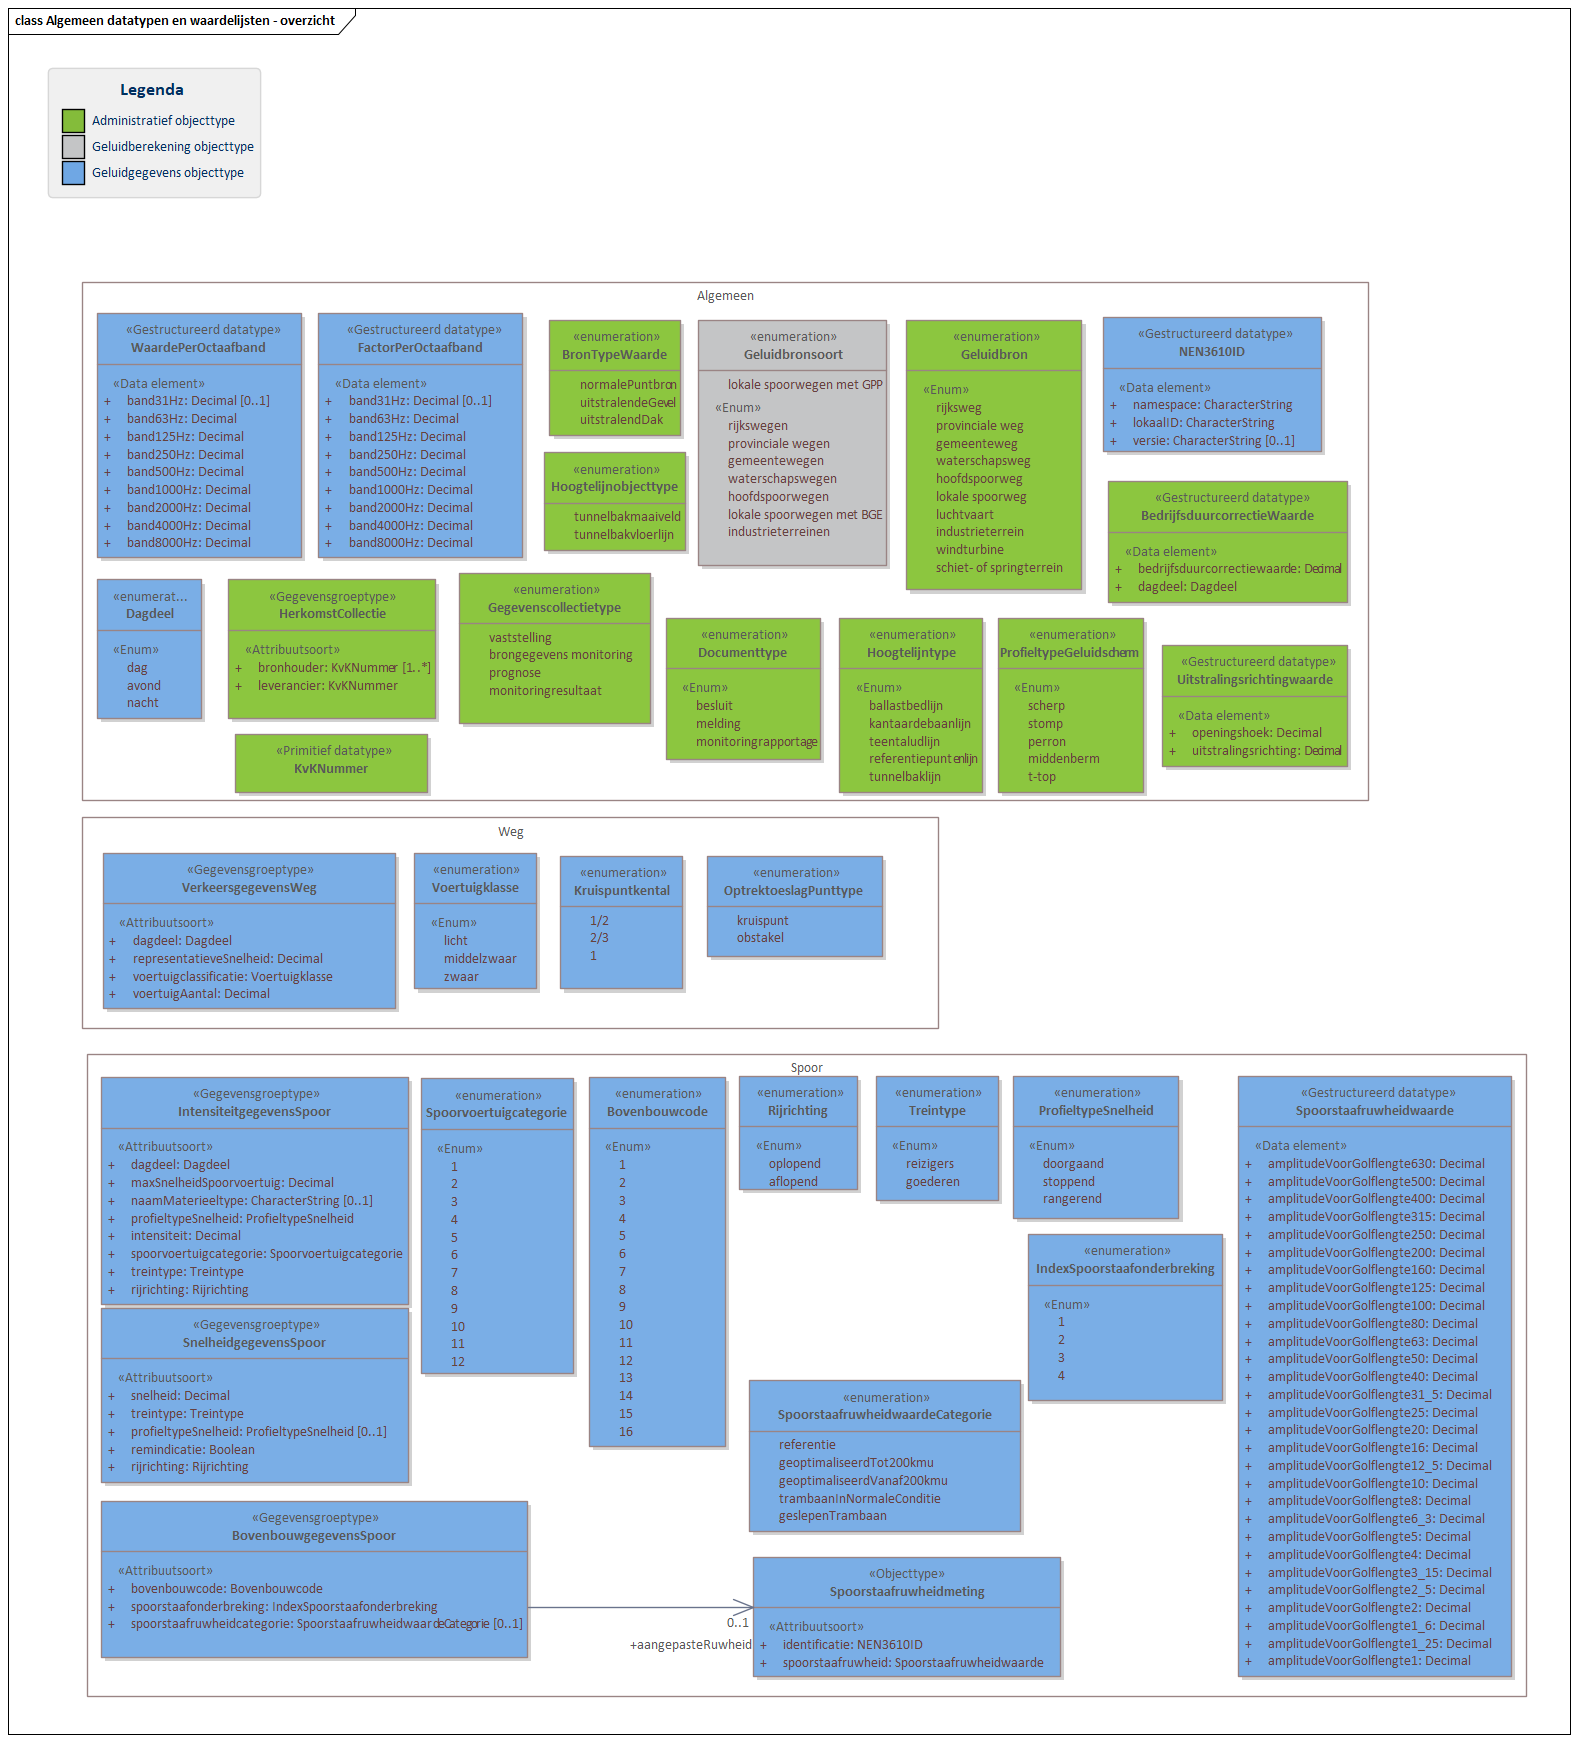
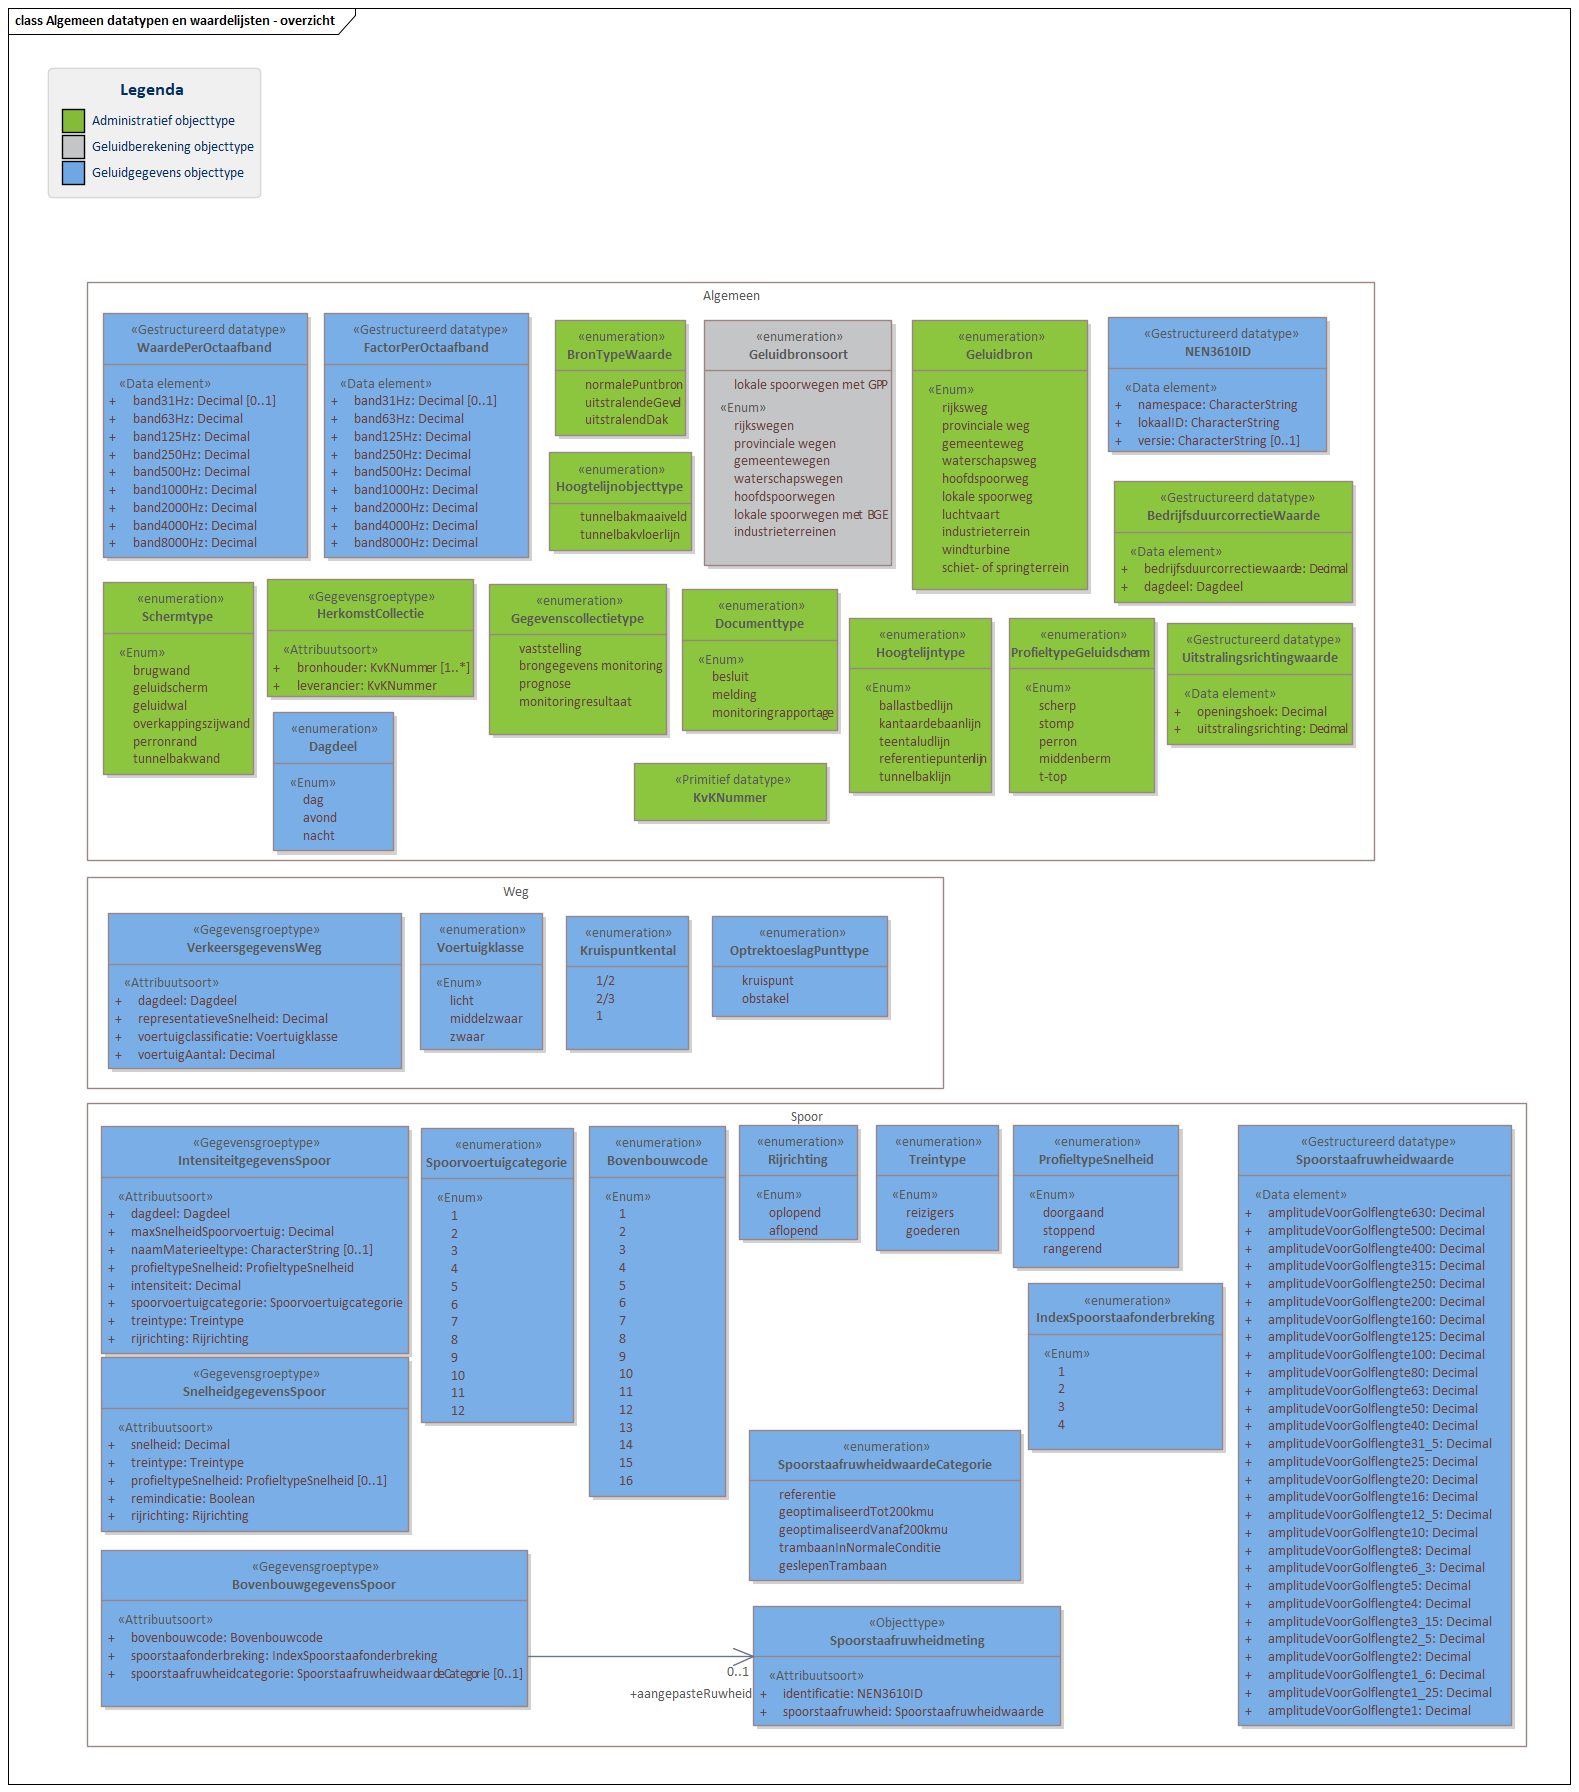
MIMLM-InformatiemodelGeluid-1.1-0-20210521-20210924-124714

Changed region(s): [[0.0, 0.1549, 0.993, 1.0], [0.0, 0.0, 0.2172, 0.1239], [0.2483, 0.7435, 0.4655, 0.8365]]

diff --git a/data/IMG-cat.respec.html b/data/IMG-cat.respec.html
@@ -1,7 +1,7 @@
 
 <!DOCTYPE HTML><section id="cat" class="normative">
    <h2>Gegevensdefinitie</h2>
-   <!--MIMLM-InformatiemodelGeluid-1.1-0-20210521-20210924-114409 imvertor 1.64.2-->
+   <!--MIMLM-InformatiemodelGeluid-1.1-0-20210521-20210924-124714 imvertor 1.64.2-->
    <section id="EAID_66AE8FA2_74FC_4d4d_B2B2_249C8D6A651F">
       <h3>[TODO: IMAGE]   Basismodel - overzicht</h3>
       <div class="imageinfo overview"><img src="data/Images/EAID_66AE8FA2_74FC_4d4d_B2B2_249C8D6A651F.png" usemap="#imagemap-EAID_66AE8FA2_74FC_4d4d_B2B2_249C8D6A651F" alt="Diagram Het Basismodel vormt de samenhang tussen alle domeinen van het IMGeluid. Alle objecttypen en relaties uit het IMGeluid komen samen in een Geluidgegevenscollectie.&#xA;Binnen het IMGeluid worden geluidbrongegevens die gebruikt worden voor GPP en BGE berekeningen, gemodelleerd als een Geluidemissie of Geluidoverdrachtobject. De resultaten van GPP of BGE berekeningen worden opgeslagen in een Geluidgegevenscollectie. De onderliggende juridische vastleggingen, vaststellingen, of monitoringsverslagen van deze omgevings- of monitoringswaarden, worden ook opgeslagen in dezelfde Geluidgegevenscollectie.&#xA;Per geluidbron per toepassing kan er een Geluidgegevenscollectie bestaan. Deze kan geassocieerd worden met maximaal 1 Geluidaandachtsgebied. Wanneer geluidgegevens met betrekking tot cumulatieberekeningen worden aangeleverd, bevat een Geluidgegevenscollectie geen Geluidaandachtsgebied.&#xA;&#xA;# <b&gt;test</b&gt;&#xA;Klik met de rechtermuisknop op het diagram om de afbeelding op volledige grote in een nieuw tabblad te openen."><map name="imagemap-EAID_66AE8FA2_74FC_4d4d_B2B2_249C8D6A651F"><area shape="rect" alt="GeluidgegevenscollectieElement" coords="411,164,648,268" href="#graph_EAID_924BD078_D715_461a_B7E9_D7176A7406E0"><area shape="rect" alt="Monitoringresultaat" coords="664,812,943,963" href="#graph_EAID_BA00B77B_D408_4590_8185_CE59E5838F1E"><area shape="rect" alt="Basisgeluidemissieobject" coords="217,772,522,909" href="#graph_EAID_9AD15457_4880_42e5_8C72_4E5EFAC91B15"><area shape="rect" alt="Geluidproductieplafondobject" coords="1160,508,1446,772" href="#graph_EAID_237408F8_8CE9_4828_B8FB_1A5B8C917622"><area shape="rect" alt="Geluidberekeningobject" coords="678,1071,992,1271" href="#graph_EAID_97ED59FE_9FCA_49a6_8F07_214E48000B76"><area shape="rect" alt="Documentverwijzing" coords="711,391,968,566" href="#graph_EAID_7E137496_1028_4af5_9367_569358A2167B"><area shape="rect" alt="Geluidaandachtsgebied" coords="1231,284,1477,424" href="#graph_EAID_B06128AC_518C_4e26_88E5_14ED5A050A19"><area shape="rect" alt="Geluidgegevenscollectie" coords="812,68,1155,297" href="#graph_EAID_313C5AF9_49B8_4860_9E65_DE7C70084864"><area shape="rect" alt="Geluidemissieobject" coords="171,365,437,525" href="#graph_EAID_361C96BA_A638_494e_80BA_590ED481A81B"><area shape="rect" alt="Geluidoverdrachtobject" coords="197,549,476,686" href="#graph_EAID_2FEA326B_B7E7_48a4_B50F_00CCB2694677"></map><p><b>Basismodel - overzicht</b> — Het Basismodel vormt de samenhang tussen alle domeinen van het IMGeluid. Alle objecttypen
@@ -132,7 +132,7 @@
    </section>
    <section id="EAID_6CCCDEA4_4D5E_407f_A06B_3D2E5CD4D5B7">
       <h3>[TODO: IMAGE]   Algemeen datatypen en waardelijsten - overzicht</h3>
-      <div class="imageinfo overview"><img src="data/Images/EAID_6CCCDEA4_4D5E_407f_A06B_3D2E5CD4D5B7.png" usemap="#imagemap-EAID_6CCCDEA4_4D5E_407f_A06B_3D2E5CD4D5B7" alt="Diagram "><map name="imagemap-EAID_6CCCDEA4_4D5E_407f_A06B_3D2E5CD4D5B7"><area shape="rect" alt="Spoorstaafruwheidmeting" coords="753,1557,1061,1677" href="#graph_EAID_25C294BB_FD64_4dc7_AEA3_118ECCA1C2E4"><area shape="rect" alt="Hoogtelijntype" coords="839,618,983,793" href="#graph_EAID_46116480_7260_453f_A7D6_80B6C72C8BDC"><area shape="rect" alt="ProfieltypeGeluidscherm" coords="998,618,1144,793" href="#graph_EAID_F76303B4_A75E_4671_8977_C4719B32F932"><area shape="rect" alt="Hoogtelijnobjecttype" coords="544,452,686,551" href="#graph_EAID_2C63527A_74A7_4248_A10B_74D236BA4163"><area shape="rect" alt="BronTypeWaarde" coords="549,320,681,436" href="#graph_EAID_4858CC05_8BCF_466f_A2F4_B8B01BEF16A6"><area shape="rect" alt="BedrijfsduurcorrectieWaarde" coords="1108,481,1348,603" href="#graph_EAID_EC155AB1_EEFE_4a82_BEF9_003F0872B893"><area shape="rect" alt="Uitstralingsrichtingwaarde" coords="1162,645,1348,767" href="#graph_EAID_C522F5BC_D298_4887_8030_D6271385F840"><area shape="rect" alt="Kruispuntkental" coords="560,856,683,989" href="#graph_EAID_951E9EFA_E876_44d0_B49F_86C07099E21F"><area shape="rect" alt="OptrektoeslagPunttype" coords="707,856,883,957" href="#graph_EAID_9A9D8D19_D8A0_4241_A6F6_5B7E0D4C7E58"><area shape="rect" alt="IndexSpoorstaafonderbreking" coords="1028,1234,1223,1401" href="#graph_EAID_89531B10_996F_4085_93AC_36BCCB16C95D"><area shape="rect" alt="Spoorstaafruwheidwaarde" coords="1238,1076,1512,1677" href="#graph_EAID_4F6A5461_64CA_460e_9C11_0E25FF4A336B"><area shape="rect" alt="SpoorstaafruwheidwaardeCategorie" coords="749,1380,1021,1532" href="#graph_EAID_01C33249_C871_41b9_8872_4135A5E35943"><area shape="rect" alt="Voertuigklasse" coords="414,853,537,989" href="#graph_EAID_26C18A71_6F81_4654_8495_3E28EE752A22"><area shape="rect" alt="NEN3610ID" coords="1103,317,1322,452" href="#graph_EAID_3F873D6C_1774_46ea_A631_862E358016E9"><area shape="rect" alt="Spoorvoertuigcategorie" coords="421,1078,574,1374" href="#graph_EAID_C59D8682_FC4E_4844_9466_C17945725615"><area shape="rect" alt="Bovenbouwcode" coords="589,1077,726,1447" href="#graph_EAID_E26FD10C_DEC5_4394_B498_B9522FAC3DA4"><area shape="rect" alt="Gegevenscollectietype" coords="459,573,651,724" href="#graph_EAID_B6773E1F_22D6_4682_B531_6A2D392A2B3C"><area shape="rect" alt="Documenttype" coords="666,618,821,760" href="#graph_EAID_30A82434_4787_4191_A68D_023591D3D78E"><area shape="rect" alt="Dagdeel" coords="97,579,202,719" href="#graph_EAID_00122B9B_F5D7_4dbc_8F39_D0F426DF8C39"><area shape="rect" alt="BovenbouwgegevensSpoor BovenbouwgegevensSpoor" coords="101,1501,528,1658" href="#graph_EAID_B5BBEDFE_C275_4c9f_BFF4_0440A0F7820B"><area shape="rect" alt="HerkomstCollectie" coords="228,579,436,719" href="#graph_EAID_0CBE6FF8_C5CF_452f_A268_2364394E4268"><area shape="rect" alt="ProfieltypeSnelheid" coords="1013,1076,1179,1219" href="#graph_EAID_2890B73C_6675_493b_8DE3_B0E30C61DBD1"><area shape="rect" alt="Treintype" coords="876,1076,999,1201" href="#graph_EAID_11918723_A26B_4cbd_BC37_F6914A4A4A4E"><area shape="rect" alt="Rijrichting" coords="739,1076,858,1190" href="#graph_EAID_91B9181F_C621_4819_83E0_1A31A9EBCF7F"><area shape="rect" alt="IntensiteitgegevensSpoor IntensiteitgegevensSpoor" coords="101,1077,409,1305" href="#graph_EAID_5FFCEE29_DD71_45db_926C_AB9A7E8677F3"><area shape="rect" alt="SnelheidgegevensSpoor SnelheidgegevensSpoor" coords="101,1308,409,1483" href="#graph_EAID_00CB7C0F_9A33_426c_90AE_DAAF97D29F7F"><area shape="rect" alt="VerkeersgegevensWeg VerkeersgegevensWeg" coords="103,853,396,1009" href="#graph_EAID_A5AB50E8_5A98_4426_A89E_F5C9D91CF6F8"><area shape="rect" alt="FactorPerOctaafband" coords="318,313,523,558" href="#graph_EAID_2E128FCF_DE66_4517_86D2_331E9E0C46EE"><area shape="rect" alt="WaardePerOctaafband" coords="97,313,302,558" href="#graph_EAID_7AE14E60_44F9_4af5_A8D1_D005D44A25BE"><area shape="rect" alt="Geluidbron" coords="906,320,1082,590" href="#graph_EAID_6FABE66F_BDF5_4771_AEE2_5B9B0C9199C2"><area shape="rect" alt="Geluidbronsoort" coords="698,320,887,566" href="#graph_EAID_16AB414E_37DD_460d_AEAE_00A62748E617"></map><p><b>Algemeen datatypen en waardelijsten - overzicht</b></p>
+      <div class="imageinfo overview"><img src="data/Images/EAID_6CCCDEA4_4D5E_407f_A06B_3D2E5CD4D5B7.png" usemap="#imagemap-EAID_6CCCDEA4_4D5E_407f_A06B_3D2E5CD4D5B7" alt="Diagram "><map name="imagemap-EAID_6CCCDEA4_4D5E_407f_A06B_3D2E5CD4D5B7"><area shape="rect" alt="Schermtype" coords="103,582,254,775" href="#graph_EAID_C9ACE184_6E2B_40c1_ACE0_A7C5EE554EF9"><area shape="rect" alt="Spoorstaafruwheidmeting" coords="753,1606,1061,1726" href="#graph_EAID_25C294BB_FD64_4dc7_AEA3_118ECCA1C2E4"><area shape="rect" alt="Hoogtelijntype" coords="849,618,992,793" href="#graph_EAID_46116480_7260_453f_A7D6_80B6C72C8BDC"><area shape="rect" alt="ProfieltypeGeluidscherm" coords="1009,618,1155,793" href="#graph_EAID_F76303B4_A75E_4671_8977_C4719B32F932"><area shape="rect" alt="Hoogtelijnobjecttype" coords="549,452,692,551" href="#graph_EAID_2C63527A_74A7_4248_A10B_74D236BA4163"><area shape="rect" alt="BronTypeWaarde" coords="555,320,686,436" href="#graph_EAID_4858CC05_8BCF_466f_A2F4_B8B01BEF16A6"><area shape="rect" alt="BedrijfsduurcorrectieWaarde" coords="1114,481,1353,603" href="#graph_EAID_EC155AB1_EEFE_4a82_BEF9_003F0872B893"><area shape="rect" alt="Uitstralingsrichtingwaarde" coords="1167,623,1353,745" href="#graph_EAID_C522F5BC_D298_4887_8030_D6271385F840"><area shape="rect" alt="Kruispuntkental" coords="566,916,689,1050" href="#graph_EAID_951E9EFA_E876_44d0_B49F_86C07099E21F"><area shape="rect" alt="OptrektoeslagPunttype" coords="712,916,888,1017" href="#graph_EAID_9A9D8D19_D8A0_4241_A6F6_5B7E0D4C7E58"><area shape="rect" alt="IndexSpoorstaafonderbreking" coords="1028,1283,1223,1450" href="#graph_EAID_89531B10_996F_4085_93AC_36BCCB16C95D"><area shape="rect" alt="Spoorstaafruwheidwaarde" coords="1238,1125,1512,1726" href="#graph_EAID_4F6A5461_64CA_460e_9C11_0E25FF4A336B"><area shape="rect" alt="SpoorstaafruwheidwaardeCategorie" coords="749,1430,1021,1581" href="#graph_EAID_01C33249_C871_41b9_8872_4135A5E35943"><area shape="rect" alt="Voertuigklasse" coords="420,913,543,1050" href="#graph_EAID_26C18A71_6F81_4654_8495_3E28EE752A22"><area shape="rect" alt="NEN3610ID" coords="1108,317,1327,452" href="#graph_EAID_3F873D6C_1774_46ea_A631_862E358016E9"><area shape="rect" alt="Spoorvoertuigcategorie" coords="421,1128,574,1423" href="#graph_EAID_C59D8682_FC4E_4844_9466_C17945725615"><area shape="rect" alt="Bovenbouwcode" coords="589,1126,726,1497" href="#graph_EAID_E26FD10C_DEC5_4394_B498_B9522FAC3DA4"><area shape="rect" alt="Gegevenscollectietype" coords="489,584,667,735" href="#graph_EAID_B6773E1F_22D6_4682_B531_6A2D392A2B3C"><area shape="rect" alt="Documenttype" coords="682,589,838,731" href="#graph_EAID_30A82434_4787_4191_A68D_023591D3D78E"><area shape="rect" alt="Dagdeel" coords="273,712,394,851" href="#graph_EAID_00122B9B_F5D7_4dbc_8F39_D0F426DF8C39"><area shape="rect" alt="BovenbouwgegevensSpoor BovenbouwgegevensSpoor" coords="101,1550,528,1707" href="#graph_EAID_B5BBEDFE_C275_4c9f_BFF4_0440A0F7820B"><area shape="rect" alt="HerkomstCollectie" coords="267,579,474,697" href="#graph_EAID_0CBE6FF8_C5CF_452f_A268_2364394E4268"><area shape="rect" alt="ProfieltypeSnelheid" coords="1013,1125,1179,1268" href="#graph_EAID_2890B73C_6675_493b_8DE3_B0E30C61DBD1"><area shape="rect" alt="Treintype" coords="876,1125,999,1251" href="#graph_EAID_11918723_A26B_4cbd_BC37_F6914A4A4A4E"><area shape="rect" alt="Rijrichting" coords="739,1125,858,1240" href="#graph_EAID_91B9181F_C621_4819_83E0_1A31A9EBCF7F"><area shape="rect" alt="IntensiteitgegevensSpoor IntensiteitgegevensSpoor" coords="101,1126,409,1354" href="#graph_EAID_5FFCEE29_DD71_45db_926C_AB9A7E8677F3"><area shape="rect" alt="SnelheidgegevensSpoor SnelheidgegevensSpoor" coords="101,1357,409,1532" href="#graph_EAID_00CB7C0F_9A33_426c_90AE_DAAF97D29F7F"><area shape="rect" alt="VerkeersgegevensWeg VerkeersgegevensWeg" coords="108,913,402,1069" href="#graph_EAID_A5AB50E8_5A98_4426_A89E_F5C9D91CF6F8"><area shape="rect" alt="FactorPerOctaafband" coords="324,313,529,558" href="#graph_EAID_2E128FCF_DE66_4517_86D2_331E9E0C46EE"><area shape="rect" alt="WaardePerOctaafband" coords="103,313,308,558" href="#graph_EAID_7AE14E60_44F9_4af5_A8D1_D005D44A25BE"><area shape="rect" alt="Geluidbron" coords="912,320,1088,590" href="#graph_EAID_6FABE66F_BDF5_4771_AEE2_5B9B0C9199C2"><area shape="rect" alt="Geluidbronsoort" coords="704,320,892,566" href="#graph_EAID_16AB414E_37DD_460d_AEAE_00A62748E617"></map><p><b>Algemeen datatypen en waardelijsten - overzicht</b></p>
       </div>
    </section>
    <section id="">
@@ -21955,7 +21955,7 @@
 </section>
 <section id="lis" class="normative">
    <h2>Inhoud van waardenlijsten</h2>
-   <!--MIMLM-InformatiemodelGeluid-1.1-0-20210521-20210924-114409 imvertor 1.64.2--><a class="anchor" id="graph_EAID_C9ACE184_6E2B_40c1_ACE0_A7C5EE554EF9"></a><a class="anchor" id="detail_class_IMGeluidAlgemeen_Schermtype"></a><section id="detail_class_IMGeluidAlgemeen_Schermtype">
+   <!--MIMLM-InformatiemodelGeluid-1.1-0-20210521-20210924-124714 imvertor 1.64.2--><a class="anchor" id="graph_EAID_C9ACE184_6E2B_40c1_ACE0_A7C5EE554EF9"></a><a class="anchor" id="detail_class_IMGeluidAlgemeen_Schermtype"></a><section id="detail_class_IMGeluidAlgemeen_Schermtype">
       <h3>Enumeratie details  Schermtype</h3>
       
       <table style="width: 100%;" class="list">
